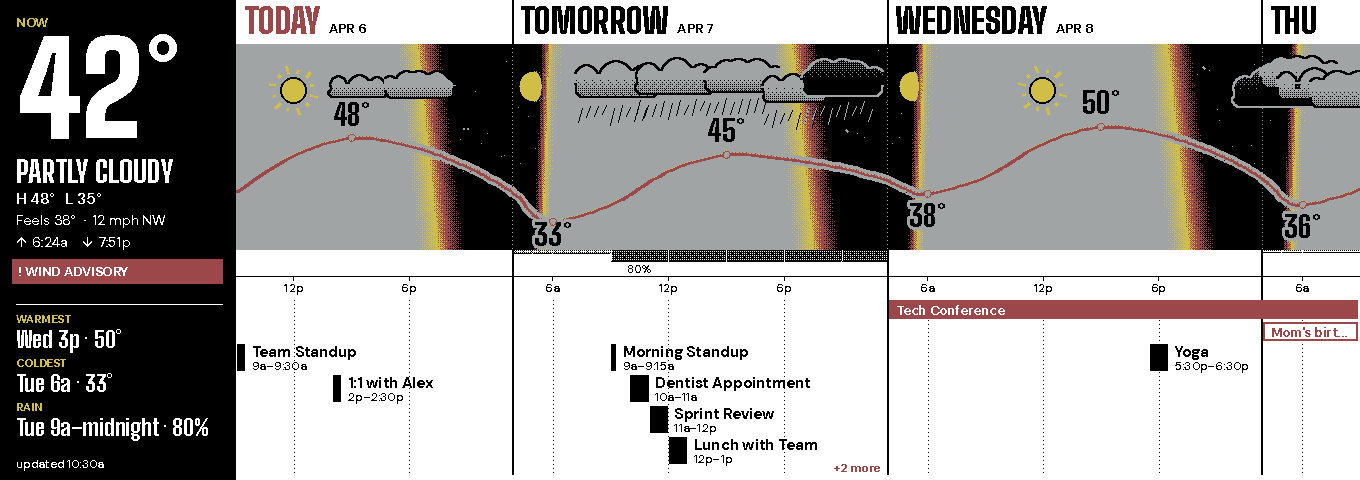
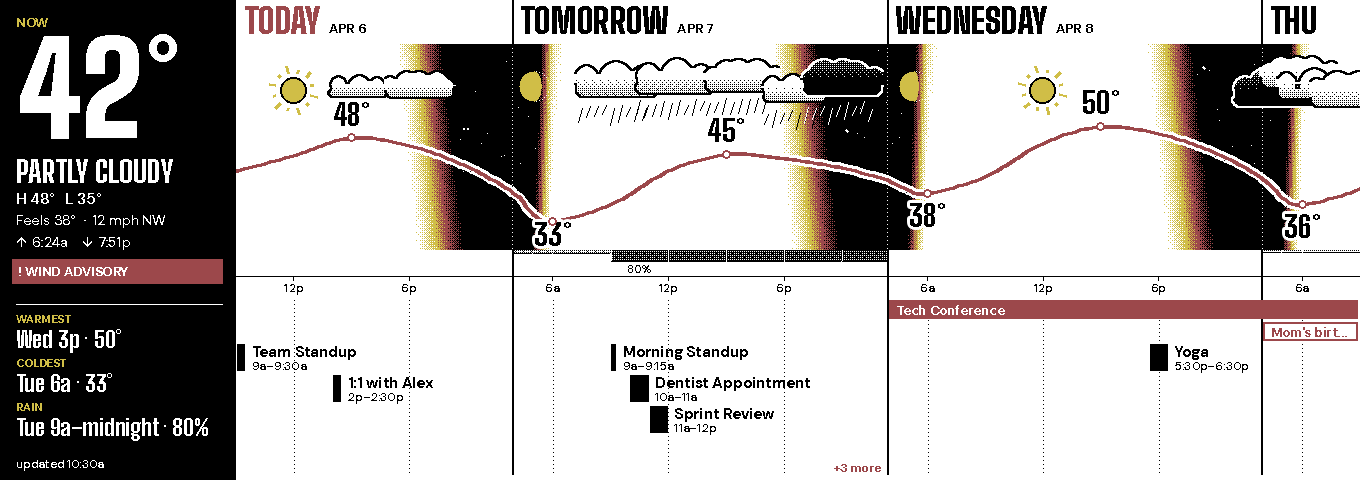
wide_horizon: fix review findings — forecast gap, art region, overflow
- Fill the gap before the first forecast slot (lead_in). OWM's 3-hour grid
  starts at the next UTC boundary after the request, so the left edge of the
  plate had no curve, clouds or rain — 2 h / ~38 px in New York. Stand-in
  slots carry the current reading and icon. Dummy data now starts its grid
  the way OWM does, so previews exercise this.
- Stop declaring the sky as an art region. dither_art_regions() is not the
  identity on a tile of exact inks (its neutral pass dithers the tile's
  luminance), so it speckled the plate on the panel it was drawn for. A new
  test pins that the native four-ink pipeline equals the drawn plate snapped
  to inks.
- "+N more": key a hidden event begun before the window to the window's
  first day and clamp the label off the hero block; reserve a footer row
  when anything is hidden so the count never overprints the last lane; count
  all-day chips past the second row instead of dropping them silently.

Claude-Session: https://claude.ai/code/session_014tzDQ2KFBUpoGD9KjokJEt

Changed region(s): [[0.1544, 0.0938, 1.0, 0.5312], [0.4941, 0.9062, 0.6176, 0.9688]]

diff --git a/tests/test_wide_horizon_theme.py b/tests/test_wide_horizon_theme.py
@@ -13,6 +13,7 @@ from __future__ import annotations
 import math
 from datetime import date, datetime, timedelta, timezone
 from unittest.mock import MagicMock, patch
+from zoneinfo import ZoneInfo
 
 import numpy as np
 import pytest
@@ -45,6 +46,7 @@ SF = (37.77, -122.42)
 # The render tests hand the plate a naive clock, which reads as UTC; London
 # keeps the sun where that clock says it is.
 LONDON = (51.5, -0.12)
+NY = ZoneInfo("America/New_York")
 REGION = ComponentRegion(0, 0, 1360, 480)
 NATIVE_G = DisplayConfig(provider="waveshare", model="epd10in85g", width=1360, height=480)
 NATIVE_MONO = DisplayConfig(provider="waveshare", model="epd7in5_V2", width=1360, height=480)
@@ -198,11 +200,13 @@ class TestHourlyCache:
 
 
 class TestDummyHourly:
-    def test_forty_three_hour_slots_from_the_current_slot(self):
+    def test_forty_slots_from_the_next_utc_boundary_like_owm(self):
         data = generate_dummy_data(now=NOW)
         hourly = data.weather.hourly
         assert len(hourly) == 40
-        assert hourly[0].time.replace(tzinfo=None) == datetime(2026, 4, 6, 9)
+        assert hourly[0].time == datetime(2026, 4, 6, 12, tzinfo=timezone.utc)
+        ny = generate_dummy_data(tz=NY, now=datetime(2026, 4, 6, 9, 30, tzinfo=NY)).weather
+        assert ny.hourly[0].time == datetime(2026, 4, 6, 15, tzinfo=timezone.utc)
         assert {b.time - a.time for a, b in zip(hourly, hourly[1:])} == {timedelta(hours=3)}
 
     def test_curve_is_continuous_across_midnight(self):
@@ -373,6 +377,30 @@ class TestTemperature:
         found = wh.daily_extremes(wh.window_slots(hourly, axis, None), axis)
         assert not [f for f in found if f[0] == "high" and f[1].date() == start.date()]
 
+    def test_lead_in_fills_the_gap_before_the_first_slot(self):
+        # New York at 09:30: the window opens at 09:00 local, OWM's grid at
+        # 15:00 UTC = 11:00 local.
+        axis = _axis(datetime(2026, 4, 6, 9, 30))
+        weather = _weather(current_temp=39.0, current_icon="04d")
+        first = datetime(2026, 4, 6, 15, tzinfo=timezone.utc)
+        hourly = [HourlyForecast(first + timedelta(hours=3 * i), 50, "01d") for i in range(30)]
+        slots = wh.window_slots(hourly, axis, NY)
+        assert slots[0][0] == datetime(2026, 4, 6, 11)
+        filled = wh.lead_in(slots, weather, axis)
+        assert filled[0][0] == datetime(2026, 4, 6, 8)
+        assert (filled[0][1].temp, filled[0][1].icon) == (39.0, "04d")
+        assert filled[1:] == slots
+
+    def test_lead_in_covers_a_gap_of_two_slots_and_leaves_a_covered_window(self):
+        axis = _axis(datetime(2026, 4, 6, 11, 50))  # opens 09:00
+        slots = [(datetime(2026, 4, 6, 14), HourlyForecast(datetime(2026, 4, 6, 14), 50, "01d"))]
+        filled = wh.lead_in(slots, _weather(), axis)
+        assert [t.hour for t, _ in filled] == [8, 11, 14]
+        covered = [(datetime(2026, 4, 6, 9), slots[0][1])]
+        assert wh.lead_in(covered, _weather(), axis) is covered
+        assert wh.lead_in([], _weather(), axis) == []
+        assert wh.lead_in(slots, None, axis) is slots
+
     def test_scale_widens_a_flat_day(self):
         assert wh.temp_scale([50, 52]) == (51 - wh.MIN_TEMP_SPAN / 2, 51 + wh.MIN_TEMP_SPAN / 2)
         assert wh.temp_scale([30, 70]) == (30, 70)
@@ -431,6 +459,53 @@ class TestEventSelection:
 # ---------------------------------------------------------------------------
 # Outlook
 # ---------------------------------------------------------------------------
+
+
+class TestOverflow:
+    def test_counts_by_day_with_an_early_start_on_the_first(self):
+        axis = _axis()
+        starts = [
+            datetime(2026, 4, 5, 20),  # began before the window
+            datetime(2026, 4, 6, 14),
+            datetime(2026, 4, 8, 9),
+        ]
+        assert wh.overflow_counts(starts, axis) == {date(2026, 4, 6): 2, date(2026, 4, 8): 1}
+
+    @staticmethod
+    def _footer_ink(data):
+        img = _plate(data, mode="L").convert("1")
+        return ink(img, (SKY[0], 480 - 6 - wh.OVERFLOW_H, 1360, 480 - 6))
+
+    def test_an_all_day_item_past_the_rows_is_counted(self):
+        day = datetime(2026, 4, 7)
+        chips = [_event(f"Holiday {i}", day, hours=24, all_day=True) for i in range(3)]
+        two = self._footer_ink(DashboardData(events=chips[:2]))
+        three = self._footer_ink(DashboardData(events=chips))
+        assert three > two + 20  # the rules and hairlines cross the footer too
+
+    def test_a_count_for_a_narrow_first_day_stays_on_the_plate(self):
+        # At 21:30 the window opens at 21:00 and today is a ~45-px sliver, too
+        # narrow for "+N more" — the count must not slide into the hero block.
+        now = datetime(2026, 4, 6, 21, 30)
+        events = [_event(f"Late {i}", datetime(2026, 4, 6, 21, 30), hours=1) for i in range(8)]
+        foot = (SKY[0], 480 - 6 - wh.OVERFLOW_H, SKY[0] + 60, 480 - 6)
+        edge = (SKY[0], foot[1], SKY[0] + 4, foot[3])  # where a clipped label would cross
+        busy = _plate(DashboardData(events=events), mode="L", now=now).convert("1")
+        few = _plate(DashboardData(events=events[:2]), mode="L", now=now).convert("1")
+        assert ink(busy, foot) > ink(few, foot) + 20
+        assert ink(busy, edge) == ink(few, edge)
+
+    def test_the_count_keeps_clear_of_the_last_lane(self):
+        # Two all-day rows plus more timed events than fit: the last lane drawn
+        # must end above the footer row the count sits in.
+        day = datetime(2026, 4, 7)
+        chips = [_event(f"Trip {i}", day, hours=24, all_day=True) for i in range(2)]
+        timed = [_event(f"Meeting {i}", datetime(2026, 4, 7, 10), hours=1) for i in range(9)]
+        axis = _axis()
+        x0 = int(axis.x(datetime(2026, 4, 7, 10))) + 2
+        bars = (x0, 480 - 6 - wh.OVERFLOW_H, x0 + 10, 480 - 6)
+        img = _plate(DashboardData(events=chips + timed), mode="L").convert("1")
+        assert ink(img, bars) == 0
 
 
 class TestOutlook:
@@ -537,6 +612,15 @@ class TestRender:
             h.icon = icon
         return DashboardData(weather=_weather(hourly))
 
+    def test_the_curve_reaches_the_left_edge_before_the_first_slot(self):
+        # New York at 09:30: the window opens at 09:00, OWM's grid at 11:00.
+        now = datetime(2026, 4, 6, 9, 30, tzinfo=NY)
+        first = datetime(2026, 4, 6, 15, tzinfo=timezone.utc)
+        hourly = [HourlyForecast(first + timedelta(hours=3 * i), 45.0, "01d") for i in range(30)]
+        img = _plate(DashboardData(weather=_weather(hourly)), now=now, coords=(40.7, -74.0))
+        left_edge = (SKY[0], SKY[1], SKY[0] + 30, SKY[3])
+        assert _count(img, RED, left_edge) > 60
+
     def test_overcast_draws_clouds(self):
         # Tuesday 07:30-10:00: daylight, clear of the noon sun and of the curve.
         axis = _axis()
@@ -634,22 +718,35 @@ class TestRender:
         assert at(NOW) == at(NOW + timedelta(minutes=25))
         assert at(NOW) != at(datetime(2026, 4, 6, 12, 5))
 
-    def test_art_region_is_declared(self):
-        from src.render.components.registry import RenderContext, get_component
+    def test_native_pipeline_changes_nothing_but_the_ink_snap(self):
+        """The plate is exact inks; the four-ink backend must leave it alone.
 
-        theme = load_theme("wide_horizon")
-        img = Image.new("L", (1360, 480), 255)
-        ctx = RenderContext(
-            draw=ImageDraw.Draw(img),
-            data=DashboardData(),
-            today=NOW.date(),
-            now=NOW,
-            layout=theme.layout,
-            style=theme.style,
-            image=img,
+        The sky is deliberately not an art region: re-diffusing a tile of exact
+        inks is not the identity (its neutral pass dithers the tile's
+        luminance, which flips pixels beside red and yellow).
+        """
+        from src.render.quantize import quantize_to_palette_nearest
+
+        tz = NY
+        now = datetime(2026, 4, 6, 17, 30, tzinfo=tz)  # dusk in the window
+        data = generate_dummy_data(tz=tz, now=now)
+        data.fetched_at = now
+        rendered = render_dashboard(
+            data, NATIVE_G, theme=load_theme("wide_horizon"), latitude=40.7, longitude=-74.0
         )
-        get_component("wide_horizon")(ctx)
-        assert ctx.dither_regions == [SKY]
+        plate = Image.new("RGB", (1360, 480), "white")
+        wh.draw_wide_horizon(
+            ImageDraw.Draw(plate),
+            data,
+            now.date(),
+            now,
+            image=plate,
+            region=REGION,
+            latitude=40.7,
+            longitude=-74.0,
+        )
+        snapped = quantize_to_palette_nearest(plate, list(WAVESHARE_G_PALETTE))
+        assert image_hash(rendered.convert("RGB")) == image_hash(snapped)
 
 
 class TestFonts:

diff --git a/src/render/components/wide_horizon_panel.py b/src/render/components/wide_horizon_panel.py
@@ -35,9 +35,13 @@ rather than an 8-px one — while the night keeps a truthful place on the axis.
 Everything on the plate is a pure ink. Type is set without antialiasing
 (``fontmode = "1"``) and every tone is an ordered dither computed here, so the
 colour panel's nearest-ink snap and the monochrome threshold are both the
-identity at native size. The sky is still declared as an art region
-(``sky_rect``) so a panel that *scales* the plate re-diffuses its tones after
-the resize instead of snapping a blurred dither to a flat ink.
+identity at native size. The sky is deliberately *not* declared as an art
+region: the backend's re-diffusion converts a tile to greyscale before its
+neutral pass, so the luminance error of red and yellow pixels flips black and
+white neighbours — the plate would come out speckled on the panel it was
+drawn for. The cost is on a panel that scales the plate (an 800x480 Inky),
+where the blurred twilights snap to their nearest ink; the panoramic themes
+are kept out of rotation on that shape anyway.
 
 Repaints: the window starts at the 3-hour slot holding *now*, so the plate
 moves at most eight times a day on the clock — the forecast grid itself only
@@ -121,6 +125,8 @@ MIN_BESIDE_LABEL_W = 24
 
 STARS_PER_100PX = 16
 MIN_CHIP_LABEL_W = 48  # an all-day chip narrower than this carries no label
+ALLDAY_MAX_ROWS = 2
+OVERFLOW_H = 16  # footer row kept for "+N more" when anything is hidden
 
 
 # ---------------------------------------------------------------------------
@@ -421,6 +427,31 @@ def window_slots(
     return local[lo:hi]
 
 
+def lead_in(
+    slots: list[tuple[datetime, HourlyForecast]], weather: WeatherData | None, axis: TimeAxis
+) -> list[tuple[datetime, HourlyForecast]]:
+    """*slots* with the gap before the first forecast slot filled from conditions now.
+
+    OWM's grid sits on 3-hour **UTC** boundaries and starts at the first one
+    after the request, while the window starts at the local 3-hour slot
+    holding now — so outside a UTC+0/3/6/... zone the two never line up, and
+    even inside one the first slot is up to three hours ahead. Without a lead-in
+    the left edge of the plate has no curve, clouds or rain. Stand-in slots
+    step back from the first real one until the window's start is covered;
+    they carry the current reading and icon, which is what "now" is.
+    """
+    if weather is None or not slots or slots[0][0] <= axis.start:
+        return slots
+    lead: list[tuple[datetime, HourlyForecast]] = []
+    t = slots[0][0]
+    while t > axis.start:
+        t -= timedelta(hours=SLOT_HOURS)
+        lead.append(
+            (t, HourlyForecast(time=t, temp=weather.current_temp, icon=weather.current_icon))
+        )
+    return lead[::-1] + slots
+
+
 def catmull_rom(points: list[tuple[float, float]], step: float = 4.0) -> list[tuple[float, float]]:
     """A smooth polyline through *points* (x strictly increasing)."""
     if len(points) < 3:
@@ -574,7 +605,7 @@ def _is_dark(alt: np.ndarray, sky_x0: int, x: float) -> bool:
 
 
 def sky_rect(region: ComponentRegion) -> Rect:
-    """The sky's rectangle in canvas coordinates — the part a scaled colour panel may dither."""
+    """The sky's rectangle in canvas coordinates, ``(x0, y0, x1, y1)``."""
     x0 = region.x + HERO_W
     y0 = region.y + HEAD_H
     return (x0, y0, region.x + region.w, y0 + SKY_H)
@@ -638,7 +669,7 @@ def _draw_plate(
     image.paste(field.convert(image.mode), (sky_x0, sky_y0))
 
     _draw_stars(draw, axis, alt, sky_y0, ink)
-    slots = window_slots(weather.hourly, axis, tz) if weather else []
+    slots = lead_in(window_slots(weather.hourly, axis, tz), weather, axis) if weather else []
     suns = _draw_suns(
         draw, axis, sky_y0, ink, weather, latitude, longitude, sun_tz, altitude, slots
     )
@@ -1116,6 +1147,7 @@ def _draw_events(draw, data: DashboardData, axis: TimeAxis, y0: int, y1: int, in
         t += timedelta(hours=1)
 
     y = y0
+    overflow_starts: list[datetime] = []  # starts of everything not drawn
     allday = allday_in_window(data.events, data.birthdays, axis)
     font_ad = fonts.dm_bold(13)
     if allday:
@@ -1123,10 +1155,12 @@ def _draw_events(draw, data: DashboardData, axis: TimeAxis, y0: int, y1: int, in
         for start, end, label, bday in allday:
             x0, x1 = axis.x(start), axis.x(end)
             lw = text_width(draw, label, font_ad) + 16
-            items.append((x0, max(x1, x0 + lw), (x0, x1, label, bday)))
-        rows = pack_lanes(items)[:2]
+            items.append((x0, max(x1, x0 + lw), (x0, x1, label, bday, start)))
+        packed = pack_lanes(items)
+        rows = packed[:ALLDAY_MAX_ROWS]
+        overflow_starts += [chip[4] for lane in packed[ALLDAY_MAX_ROWS:] for chip in lane]
         for row in rows:
-            for x0, x1, label, bday in row:
+            for x0, x1, label, bday, _start in row:
                 bx0, bx1 = x0 + 2, x1 - 3
                 if bday:
                     draw.rectangle(
@@ -1142,11 +1176,7 @@ def _draw_events(draw, data: DashboardData, axis: TimeAxis, y0: int, y1: int, in
                     )
             y += ALLDAY_H
 
-    lanes_avail = max(0, (y1 - y) // LANE_H)
     events = events_in_window(data.events, axis)
-    if not events or lanes_avail == 0:
-        return
-
     title_font = fonts.dm_bold(15)
     time_font = fonts.dm_medium(12)
     items = []
@@ -1159,8 +1189,12 @@ def _draw_events(draw, data: DashboardData, axis: TimeAxis, y0: int, y1: int, in
         extent = x1 if inside else x1 + LABEL_PAD + min(need, MAX_BESIDE_LABEL_W)
         items.append((x0, min(extent, axis.x1) + 4, (evt, x0, x1, inside)))
     lanes = pack_lanes(items)
+    lanes_avail = max(0, (y1 - y) // LANE_H)
+    if len(lanes) > lanes_avail or overflow_starts:
+        # Something will be counted: keep the footer row clear for the count.
+        lanes_avail = max(0, (y1 - OVERFLOW_H - y) // LANE_H)
     shown = lanes[:lanes_avail]
-    hidden = [it for lane in lanes[lanes_avail:] for it in lane]
+    overflow_starts += [evt.start for lane in lanes[lanes_avail:] for evt, *_ in lane]
 
     for li, lane in enumerate(shown):
         ly = y + li * LANE_H
@@ -1183,17 +1217,27 @@ def _draw_events(draw, data: DashboardData, axis: TimeAxis, y0: int, y1: int, in
             draw_text_truncated(draw, (tx, ly - 2), title, title_font, room, fill=fill)
             draw_text_truncated(draw, (tx, ly + 14), when, time_font, room, fill=fill)
 
-    if hidden:
-        by_day: dict[date, int] = {}
-        for evt, *_ in hidden:
-            by_day[evt.start.date()] = by_day.get(evt.start.date(), 0) + 1
-        font = fonts.dm_bold(12)
-        for day, n in by_day.items():
-            end = datetime.combine(day + timedelta(days=1), datetime.min.time())
-            label = f"+{n} more"
-            tw = text_width(draw, label, font)
-            x = min(axis.x(end), axis.x1) - tw - 6
-            draw.text((x, y1 - 14), label, font=font, fill=ink.red if ink.colour else ink.black)
+    _draw_overflow(draw, axis, overflow_starts, y1, ink)
+
+
+def overflow_counts(starts: list[datetime], axis: TimeAxis) -> dict[date, int]:
+    """How many undrawn items fall on each day, an item begun before the window on its first."""
+    counts: dict[date, int] = {}
+    for start in starts:
+        day = max(start, axis.start).date()
+        counts[day] = counts.get(day, 0) + 1
+    return counts
+
+
+def _draw_overflow(draw, axis: TimeAxis, starts: list[datetime], y1: int, ink: Inks) -> None:
+    """``+N more`` at the right of each day's column, in the reserved footer row."""
+    font = fonts.dm_bold(12)
+    for day, n in sorted(overflow_counts(starts, axis).items()):
+        end = datetime.combine(day + timedelta(days=1), datetime.min.time())
+        label = f"+{n} more"
+        tw = text_width(draw, label, font)
+        x = max(axis.x0 + 4, min(axis.x(end), axis.x1) - tw - 6)
+        draw.text((x, y1 - 14), label, font=font, fill=ink.red if ink.colour else ink.black)
 
 
 # --- hero -------------------------------------------------------------------

diff --git a/src/dummy_data.py b/src/dummy_data.py
@@ -47,10 +47,16 @@ def _dummy_temp(prev: tuple, day: tuple, nxt: tuple, hour: float) -> float:
 
 
 def _dummy_hourly(now: datetime, tz: tzinfo) -> list[HourlyForecast]:
-    """Forty 3-hour slots from the one holding *now*, like the OWM grid."""
+    """Forty 3-hour slots shaped like the OWM grid.
+
+    OWM starts the grid at the first 3-hour **UTC** boundary after the request,
+    not at a local slot, so the dummy grid does the same — previews then show
+    the plates' handling of the gap between now and the first slot.
+    """
     start_day = now.date()
-    first = datetime.combine(start_day, datetime.min.time()).replace(tzinfo=tz)
-    first += timedelta(hours=(now.hour // 3) * 3)
+    now_utc = (now if now.tzinfo else now.replace(tzinfo=tz)).astimezone(timezone.utc)
+    first = now_utc.replace(hour=now_utc.hour // 3 * 3, minute=0, second=0, microsecond=0)
+    first = (first + timedelta(hours=3)).astimezone(tz)
     slots: list[HourlyForecast] = []
     for i in range(40):
         t = first + timedelta(hours=3 * i)

diff --git a/src/render/components/_builtins.py b/src/render/components/_builtins.py
@@ -526,8 +526,9 @@ def _halftone_agenda_wide(ctx: RenderContext) -> None:
 
 @register_component("wide_horizon")
 def _wide_horizon(ctx: RenderContext) -> None:
+    # No art region: the plate is already exact inks, and the backend's
+    # re-diffusion of one is not the identity (see the panel docstring).
     region = ctx.layout.wide_horizon
-    ctx.dither_regions.append(wide_horizon_panel.sky_rect(region))
     wide_horizon_panel.draw_wide_horizon(
         ctx.draw,
         ctx.data,

diff --git a/CLAUDE.md b/CLAUDE.md
@@ -498,7 +498,7 @@ default to `None` and fall back gracefully so adding a new field never breaks ex
 - **`display.scaling` decides how an off-size canvas reaches the panel** (`fit_canvas()` in `src/display/backend.py`). Every version so far stretched, and `auto` (the default) still does unless `distortion()` — the ratio between the panel's aspect and the canvas's — exceeds `FIT_DISTORTION_THRESHOLD` (4/3): a 4:3 `epd13in3k` is 1.25 and renders byte-identically to before, the 1360×480 strip is 1.7 and fits. `fit` pads with the theme's `bg`, passed to the backend as `background=` in the canvas's own mode (`pad_value()` converts it); `stretch` and `fit` are explicit overrides, and an unknown value behaves as `auto` at render time while `validate_config()` reports it. The backend tests build their config as a `MagicMock`, which is why `resolve_scaling()` treats anything but the two explicit strings as auto rather than raising.
 - **The `wide_*` themes declare a 1360×480 canvas** (`wide_week`, `wide_day`, `wide_forecast`, `wide_horizon`, `halftone_agenda_wide`) and are the reason previews are rendered at the theme's canvas size when its *shape* differs from the panel's (`scripts/build_previews.py` swaps `cfg.display` width/height for the layout's only on an aspect mismatch — a supersampled 1600×960 canvas keeps the panel's 800×480 and its downsample) — on an 800×480 config they letterbox to a 800×282 band, which is what the pixel-snapshot and idle-tick suites hash. They are kept out of a random rotation on a panel of the other shape: `random_theme.eligible_themes(..., panel=)` drops any theme whose canvas would be fitted with padding there (`theme_fits_panel`, the same `FIT_DISTORTION_THRESHOLD` test `display.scaling: auto` applies), and `services/theme.py` and `validate_config` pass the configured panel. `OutputService` keys its default cooldown on the display spec, not the provider string, so a colour Waveshare model gets Inky's 60 s rather than the mono 0 s. `primitives.next_birthday()` is the one home of the Feb 29 → Feb 28 rollover; `birthday_bar`, `almanac`, `wide_day_panel` and `halftone_agenda_wide_panel` all call it. `wide_week` is the standard five components at new regions; `wide_day` (`wide_day_panel.py`) packs bars into lanes by `pack_lanes()` over *bar-plus-label* pixel extents, not time spans — a thirty-minute meeting is 24 px on a sixteen-hour axis, so packing by time alone left a busy day as one lane of anonymous boxes — and is in `TIME_DRIVEN` (NOW marker) and `THEMES_NEEDING_TOMORROW` (its UP NEXT rail). `wide_forecast` (`wide_forecast_panel.py`) is idle-stable; its yellow precipitation fill is drawn only when `secondary_accent_fill()` differs from `fg` (`_tint()`), because on a monochrome plate a fill behind ink text is unreadable. All three name only red/yellow/black accents so the Inky preview and the four-ink panel agree.
 - **Art regions are the one place a colour panel dithers.** A colour backend snaps every pixel to the nearest ink (`quantize_to_palette_nearest` on the G panel, the Inky driver at write time), which flattens an illustration's gradient to one ink while the same theme's greyscale path keeps its engraving. `RenderContext.dither_regions` is a list the adapter fills from the panel's pure `art_rect(region)` (`halftone`, `halftone_agenda`, `halftone_agenda_wide` and `day_arc` declare their art panes; the panel itself never sees the list, so it stays a pure function of its inputs), and `canvas.render_dashboard` passes it to `resize_and_finalize(..., dither_regions=...)`. `backend.dither_art_regions()` maps each rectangle through `placement()` — the same arithmetic `fit_canvas` uses, so a region declared in canvas coordinates lands on the fitted or stretched plate — cuts it from the resized canvas *before* the snap, Floyd-Steinberg-diffuses it onto the inks with `quantize_to_palette_fs`, and pastes it over the snapped plate. Floyd-Steinberg, not ordered Bayer: it is what the themes' L-mode path already uses, so the engraving matches across panels, and diffusion has no error to spread on an exact ink, so a solid yellow disc stays solid where a Bayer offset would speckle it. On Inky the target palette is `INKY_SPECTRA6_PALETTE` (the driver's measured values) so the write-time nearest mapping is the identity on the region. On the G panel the art helpers still fill with the measured Spectra values (`skyart.accent_yellow`, `artkit.accent_red` don't know the panel), so `G_EXACT_REMAP` substitutes each Spectra-6 value with the G ink at the same index *before* diffusion — diffusing (208,190,71) against (255,255,0) turned a solid sun disc 47% yellow. Neutral pixels diffuse against black and white only (`NEUTRAL_SPREAD`); diffusing them against the whole palette let accumulated error drift in hue and sprinkled a night sky with coloured dots. The mixing widens the perceived gamut only *inside* the hull of the inks — orange, pink, maroon, olive and greys on the G panel — and can never produce a blue or green there. Declaring a region that contains type will speckle it; the mono `WaveshareBackend` ignores the list because its whole plate already dithers.
-- **`wide_horizon` puts the next 72 hours on one axis** (`wide_horizon_panel.py`). The window starts at `window_start(now)` — the 3-hour forecast slot holding now — so the clock moves the plate at most eight times a day and the theme stays out of `TIME_DRIVEN`; the TODAY→TONIGHT switch keys on the slot for the same reason, and the hero's "updated" caption reads `content_time`. `TimeAxis` is piecewise-linear by clock hour (`hour_weight`: 23:00–06:00 at `NIGHT_WEIGHT`), ~19 px per waking hour against ~16 linear. The sky's colour per column is `astronomy.solar_altitude` at that column's time plus `HORIZON_GLOW_DEG` toward the band's bottom, mapped by `sky_field()` to **ordered dithers between pairs of inks** (white/yellow, yellow/red, red/black on colour; one black/white ramp on mono) from an 8×8 Bayer phased to canvas coordinates. Everything on the plate is an exact ink — tones are dithered here and type is set with `draw.fontmode = "1"` — so the four-ink snap and the mono threshold are the identity at native size; the sky is still declared as an art region (`sky_rect`) and the theme declares `ordered` quantization so a *scaled* panel re-screens rather than flattening a blurred dither (the latter also derives it out of partial refresh). The temperature comes from `WeatherData.hourly` (the OWM 3-hour grid, kept by `weather._parse_hourly`); `daily_extremes` labels only real turning points, since the window cuts days at both ends. Clouds/rain/snow/storm/fog are drawn per slot from its icon (`sky_kind`), seeded by the slot's clock hour so they travel with the window; an overcast or wet slot hides the sun at noon and the moon at transit (`sun_hidden`), and scattered clouds keep `SUN_CLEARANCE` off both. With a naive render clock (previews, snapshots) `sun_zone()` places the sun in the whole-hour zone the longitude implies instead of UTC. `EXTRA_EVENT_DAYS["wide_horizon"] = 3`.
+- **`wide_horizon` puts the next 72 hours on one axis** (`wide_horizon_panel.py`). The window starts at `window_start(now)` — the 3-hour forecast slot holding now — so the clock moves the plate at most eight times a day and the theme stays out of `TIME_DRIVEN`; the TODAY→TONIGHT switch keys on the slot for the same reason, and the hero's "updated" caption reads `content_time`. `TimeAxis` is piecewise-linear by clock hour (`hour_weight`: 23:00–06:00 at `NIGHT_WEIGHT`), ~19 px per waking hour against ~16 linear. The sky's colour per column is `astronomy.solar_altitude` at that column's time plus `HORIZON_GLOW_DEG` toward the band's bottom, mapped by `sky_field()` to **ordered dithers between pairs of inks** (white/yellow, yellow/red, red/black on colour; one black/white ramp on mono) from an 8×8 Bayer phased to canvas coordinates. Everything on the plate is an exact ink — tones are dithered here and type is set with `draw.fontmode = "1"` — so the four-ink snap and the mono threshold are the identity at native size. The sky is deliberately **not** an art region: `dither_art_regions()` is not the identity on a tile of exact inks (its neutral pass Floyd-Steinbergs the tile's luminance, flipping black/white pixels beside red and yellow), so declaring it speckled the plate on the panel it was drawn for — `test_native_pipeline_changes_nothing_but_the_ink_snap` pins this. The theme declares `ordered` quantization so a *scaled mono* panel re-screens rather than flattening a blurred dither (which also derives it out of partial refresh); small type on a scaled plate comes out screened, the accepted cost of a strip theme on the wrong shape. The temperature comes from `WeatherData.hourly` (the OWM 3-hour grid, kept by `weather._parse_hourly`); `daily_extremes` labels only real turning points, since the window cuts days at both ends. OWM's grid starts at the first 3-hour **UTC** boundary after the request, so it never lines up with the local slot the window opens on; `lead_in()` fills the gap with stand-in slots carrying the current reading and icon, and `dummy_data._dummy_hourly` starts its grid the same way OWM does so previews exercise it. Undrawn items (timed lanes past the space, all-day chips past `ALLDAY_MAX_ROWS`) are counted as `+N more` per day in a footer row reserved (`OVERFLOW_H`) only when something is hidden. Clouds/rain/snow/storm/fog are drawn per slot from its icon (`sky_kind`), seeded by the slot's clock hour so they travel with the window; an overcast or wet slot hides the sun at noon and the moon at transit (`sun_hidden`), and scattered clouds keep `SUN_CLEARANCE` off both. With a naive render clock (previews, snapshots) `sun_zone()` places the sun in the whole-hour zone the longitude implies instead of UTC. `EXTRA_EVENT_DAYS["wide_horizon"] = 3`.
 - **`halftone_agenda_wide` is `halftone_agenda` drawn for the strip, not a copy of it.** `halftone_agenda_wide_panel.py` imports the original's `_draw_weather_band`, `_sun_times`, `_clock`, `event_times`, `inline_range`, `two_line_time_fits`, `past_screen` and `_location_text` (private names, deliberately — the two plates must read out the same things, and a second copy of the band or the time-cell rules would drift). The agenda pane itself is this plate's own (`_draw_wide_agenda`), and it deliberately has **no state treatments** — no perforated past rows, no inverted running event, no next-up accent, no `NEXT` figure in the header: on the four-ink panel every repaint is a twenty-second colour flash and each treatment repaints at every event boundary, so the day is shown whole and the same from dawn to dusk, with the after-dark rollover the one clock-driven change (one repaint a day). `tests/test_halftone_agenda_wide_theme.py` pins that a render before, during and after an event is byte-identical. Colour keys on the *kind* of event instead — a timed event's tick is `artkit.accent_yellow_solid`, an all-day event's `accent_red` (outlined in ink on mono, where both accents are ink) — which costs no repaints; the colour-panel variant of that test pins it. Use `accent_yellow_solid`, not `skyart.accent_yellow`, for marks and type: the latter's L-mode fallback is a light grey that `harden_typeset` snaps to paper. What 520 px of width pays for — a header dateline with the day's totals (`booked_minutes` counts overlaps once), a **schedule strip** (`_draw_schedule_strip`, solid blocks whatever the hour), a duration column, `— Nh Nm free` gap markers between events at least `GAP_MIN_MINUTES` apart (`gap_after` measures from the latest end so far, so a long event swallowing a short one reports no phantom gap), and time cells in **Antonio** (condensed, so titles gain the width). Its tiers are `_WIDE_TIERS`, chosen by `wide_metrics()` on rows *plus* gap markers, which are dropped before the type shrinks past 18 px. It adds the third pane: a rail with an alert bar, the next day's events, the forecast, birthdays, and an air-and-moon foot anchored to the rail's bottom (`FOOT_H`) so it can never be pushed off by a long birthday list — the birthdays cell takes whatever is left above it. The rail shows the day after tomorrow once the agenda has rolled over, so the theme needs two extra days of events: `src/app.py` now carries `EXTRA_EVENT_DAYS` (theme → days past the standard week) with `THEMES_NEEDING_TOMORROW` derived from its keys, and `_event_window_for_theme` returns `7 + extra`. Rail rows are 24 px with a 14-pt Righteous label over a 3-px Bayer rule; the whole rail is hardened like the agenda pane. It is in `DECLINES_PARTIAL` in `tests/test_theme_partial_refresh.py` for the same reason its sibling is.
 - **Calendar backend dispatch precedence** (highest → lowest, evaluated in `src/fetchers/calendar.py:fetch_events`):
   1. `google.caldav_url` set → CalDAV via `src/fetchers/calendar_caldav.py`
